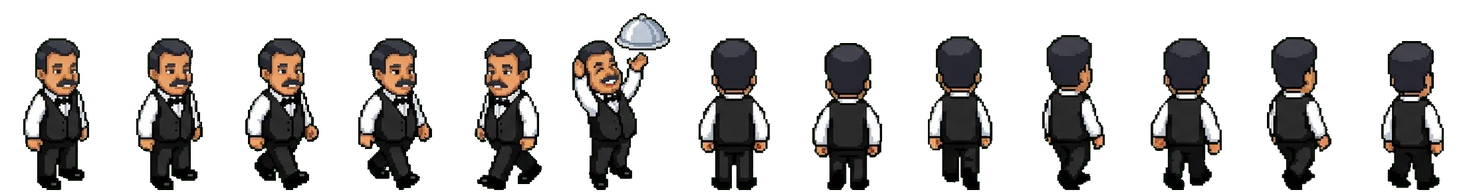
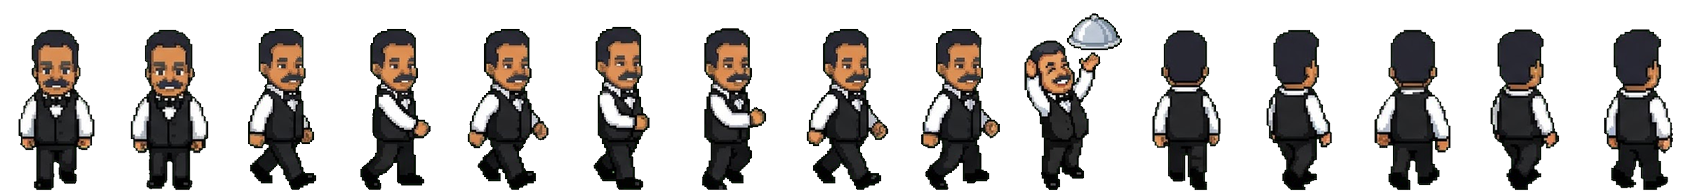
Pizzabaas: ober loopt echt (nieuw Gemini-loopvel), sta- en rugplaatjes even groot als de loopplaatjes
Claude-Session: https://claude.ai/code/session_01A1NZDKEqH4AvFTuhgNYDbP

diff --git a/pizzabaas.html b/pizzabaas.html
@@ -545,9 +545,9 @@ function ober(o) {
 // plaatje wat is: staan (van voren), opzij (loopcyclus; `rechts` = de neus wijst naar rechts, anders naar links, gespiegeld = de
 // andere kant op), bijzonder (deeg opgooien / stolp optillen), rug (staan op de rug) en rugLoop (lopen naar achteren)
 const KOK = new Image(); KOK.src = 'pizza/kok.png';   // pizza/kok2-gemini.jpg (lopen) + het deeg van pizza/kok-gemini.jpg
-const OBER = new Image(); OBER.src = 'pizza/ober.png'; // pizza/ober-gemini.jpg
+const OBER = new Image(); OBER.src = 'pizza/ober.png'; // pizza/ober2-gemini.jpg (lopen) + de stolp van pizza/ober-gemini.jpg
 KOK.vel = { staan: 0, opzij: [2, 3, 4, 5, 6, 7, 8], rechts: true, bijzonder: 9, rug: 10, rugLoop: [11, 12, 13, 14], fps: 10 };
-OBER.vel = { staan: 0, opzij: [2, 3], rechts: false, bijzonder: 5, rug: 6, rugLoop: [7, 8, 9, 10, 11, 12], fps: 7 };
+OBER.vel = { ...KOK.vel, bijzonder: 9 }; // zelfde indeling; 9 = stolp optillen
 const SW = 113, SH = 192;
 function figuur(img, p, bijzonder, rug) {
   const v = img.vel;

diff --git a/pizza/CLAUDE.md b/pizza/CLAUDE.md
@@ -18,7 +18,7 @@ achtergrond vooraf getekend (`achter`: rood-geel-wit geblokte vloer, grijs-witte
 (`RAND`), stoelen met gestreepte zitting (`stoel`), grijze tafels, borden (`bord`), poppetjes van bovenaf met kijkrichting (`poppetje`, `kijk`).
 Paneel rechts (liggend) of onder (staand): zwart schermpje `#lcd` (`balk`) en een 3x3 knoppenraster `#raster` (`tekenKnoppen`).
 Per oven een kok (`maakOven`, `stapOven`): deeg opgooien aan de werkbank (`BANK`, `DEEG`), inschuiven, bakken, op het uitgiftepunt zetten
-(`UITGIFTE`: stalen plaat met belletje op de toonbank, direct rechts van de laatste werkbank), daar haalt een ober hem op. Kok en ober zijn eigen Gemini-ontwerpen, plaatjes van 113x192 naast elkaar; welk plaatje wat is staat per vel in `KOK.vel` / `OBER.vel` (`figuur`). `pizza/kok.png` (15): 0-1 staan, 2-8 loopcyclus opzij met de neus naar rechts (gespiegeld = links; ook gebruikt voor lopen naar voren, want die cyclus is er nog niet), 9 deeg opgooien (van het oude vel, broek wit gemaakt), 10 op de rug, 11-14 lopen naar achteren; uit `pizza/kok2-gemini.jpg` (witte broek) + `pizza/kok-gemini.jpg`. `pizza/ober.png` (13, oud vel `pizza/ober-gemini.jpg`): 0-1 staan, 2-3 lopen naar links, 4 schuin, 5 stolp optillen bij het opdienen (`serveer`), 6 op de rug, 7-12 lopen naar achteren. Uitknippen met `extra/knip_figuren.py`. Opslag per speler in `pizzabaas:<naam>`. `#tegel` = plaatje.
+(`UITGIFTE`: stalen plaat met belletje op de toonbank, direct rechts van de laatste werkbank), daar haalt een ober hem op. Kok en ober zijn eigen Gemini-ontwerpen, plaatjes van 113x192 naast elkaar; welk plaatje wat is staat per vel in `KOK.vel` / `OBER.vel` (`figuur`). `pizza/kok.png` (15): 0-1 staan, 2-8 loopcyclus opzij met de neus naar rechts (gespiegeld = links; ook gebruikt voor lopen naar voren, want die cyclus is er nog niet), 9 deeg opgooien (van het oude vel, broek wit gemaakt), 10 op de rug, 11-14 lopen naar achteren; uit `pizza/kok2-gemini.jpg` (witte broek) + `pizza/kok-gemini.jpg`. `pizza/ober.png`: zelfde indeling, 9 = stolp optillen bij het opdienen (`serveer`); uit `pizza/ober2-gemini.jpg` + de stolp van `pizza/ober-gemini.jpg`. Sta- en rugplaatjes zijn verkleind tot de hoogte van de loopplaatjes (Gemini tekent die rijen niet even groot). Uitknippen met `extra/knip_figuren.py`. Opslag per speler in `pizzabaas:<naam>`. `#tegel` = plaatje.
 Pizza's (📖, `toonKaart`, `toonMaak`): `S.menu` = lijst { naam, prijs, stukjes: [{ i, x, y, r }] } (max `MAXMENU`; oude opslag krijgt een
 Margherita). Ingrediënten in `ING` (smaak `f` = [vet, zoet, zout, pittig] per stukje, inkoop `k`, soort `s`: it/groen/vlees/vis/gek) met
 plaatjes uit `pizza/ingredienten.png` (20 x 64x64 uit de Kenney food-kit, volgorde van `ING`). Soorten klanten in `SOORT` (wil, budget,

diff --git a/pizza/PLAN.md b/pizza/PLAN.md
@@ -76,7 +76,7 @@ Rij 2: 4 plaatjes, recht naar de kijker toe lopen (linkerbeen voor, staan, recht
 Rij 3: 4 plaatjes, recht van achteren weglopen (zelfde ritme).
 Alle voeten op dezelfde hoogte. Effen felgroene achtergrond (#00FF00), geen schaduwen, geen vloer, geen tekst."
 
-**B. Ober, loopvel** (stuur `pizza/ober-gemini.jpg` mee). Les van A: Gemini doet de eerste rij goed en kopieert daarna het oude
+**B. Ober, loopvel** (stuur `pizza/ober-gemini.jpg` mee). Gedaan (25 okt): `pizza/ober2-gemini.jpg`; weer alleen rij 1 goed, rest nagetekend. Les van A: Gemini doet de eerste rij goed en kopieert daarna het oude
 vel; dus weinig rijen, kleren noemen, en zeggen wat er níet op moet:
 "Maak een nieuw vel met spelfiguurtjes van precies deze ober: zelfde pixelart-stijl, snor, haar en grootte, en dezelfde kleren:
 zwarte broek, zwart gilet, wit overhemd, zwarte vlinderdas. Alleen deze 2 rijen, in een net raster, elk figuurtje even groot met
